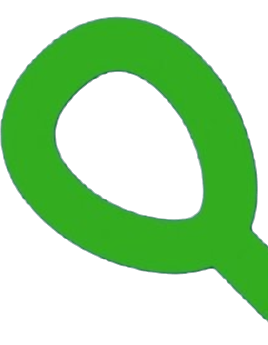
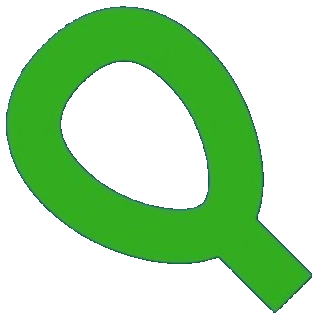
Refine court Q wave and navigation marks

Changed region(s): [[0.0597, 0.0, 1.0, 0.9875], [0.1791, 0.1693, 0.7761, 0.6771], [0.0, 0.2539, 0.0597, 0.5361]]

diff --git a/client/src/brand-new.css b/client/src/brand-new.css
@@ -147,13 +147,13 @@ body {
 }
 .bn-header__nav {
   display: flex;
-  gap: clamp(1.2rem, 2.2vw, 2.6rem);
+  gap: clamp(0.9rem, 1.6vw, 1.9rem);
   justify-content: center;
 }
 .bn-header__nav a,
 .bn-header__actions > a:first-child {
   color: inherit;
-  font-size: 0.82rem;
+  font-size: 1.23rem;
   font-weight: 700;
   letter-spacing: 0.045em;
   padding: 0.5rem 0;
@@ -344,13 +344,34 @@ body {
   width: clamp(5rem, 9vw, 9rem);
 }
 .bn-racket-q {
+  background: currentColor;
   display: block;
-  height: auto;
-  object-fit: contain;
+  height: clamp(4.5rem, 7vw, 7rem);
+  mask: url("/media/sol-racket-q-extracted.png") center / contain no-repeat;
+  -webkit-mask: url("/media/sol-racket-q-extracted.png") center / contain
+    no-repeat;
   width: clamp(4.5rem, 7vw, 7rem);
 }
+.bn-racket-q--green {
+  color: var(--bn-green);
+}
+.bn-racket-q--navy {
+  color: var(--bn-navy);
+}
+.bn-racket-q--mustard {
+  color: var(--bn-mustard);
+}
+.bn-racket-q--orange {
+  color: var(--bn-orange);
+}
+.bn-racket-q--cyan {
+  color: var(--bn-cyan);
+}
+.bn-racket-q--cream {
+  color: var(--bn-cream);
+}
 .bn-brand-wave {
-  height: 90px;
+  height: clamp(3.25rem, 4.5vw, 4.75rem);
   line-height: 0;
   margin: -1px 0;
   overflow: hidden;
@@ -367,14 +388,15 @@ body {
 }
 .bn-court-mark {
   fill: none;
-  opacity: 0.14;
+  opacity: 0.12;
   pointer-events: none;
   position: absolute;
   stroke: currentColor;
   stroke-linecap: square;
   stroke-linejoin: miter;
-  stroke-width: 4;
-  width: clamp(10rem, 19vw, 20rem);
+  stroke-width: 10;
+  transform: rotate(-18deg);
+  width: clamp(34rem, 62vw, 66rem);
 }
 
 .bn-journeys,
@@ -611,8 +633,8 @@ body {
   top: 9%;
 }
 .bn-court-mark--offerings {
-  bottom: 8%;
-  right: -3%;
+  bottom: -28%;
+  right: -20%;
 }
 .bn-offerings > .bn-section-heading {
   display: grid;
@@ -704,8 +726,8 @@ body {
   color: var(--bn-orange) !important;
 }
 .bn-court-mark--reassurance {
-  right: 4%;
-  top: 8%;
+  right: -19%;
+  top: -24%;
 }
 .bn-first-rally > div:last-child > .bn-racket-q {
   margin: 0 0 2rem auto;
@@ -799,8 +821,8 @@ body {
   grid-template-columns: 0.7fr 1.3fr;
 }
 .bn-court-mark--schedule {
-  left: -2%;
-  top: 8%;
+  left: -22%;
+  top: -23%;
 }
 .bn-schedule-list > div:last-child {
   border-top: 1px solid var(--bn-navy);
@@ -868,8 +890,8 @@ body {
 }
 .bn-court-mark--membership {
   color: var(--bn-cyan);
-  right: 3%;
-  top: 5%;
+  right: -18%;
+  top: -24%;
 }
 .bn-membership__prices {
   border-bottom: 1px solid rgba(255, 255, 255, 0.3);
@@ -1034,9 +1056,9 @@ body {
   position: relative;
 }
 .bn-court-mark--story {
-  bottom: 5%;
+  bottom: -27%;
   color: var(--bn-navy);
-  left: 2%;
+  left: -20%;
 }
 .bn-story-copy > div {
   max-width: 52rem;
@@ -1199,8 +1221,8 @@ body {
 }
 .bn-court-mark--journeys {
   color: var(--bn-navy);
-  right: 3%;
-  top: 4%;
+  right: -20%;
+  top: -22%;
 }
 .bn-footer__lead {
   align-items: center;

diff --git a/client/src/components/BrandMarks.tsx b/client/src/components/BrandMarks.tsx
@@ -26,15 +26,14 @@ export function BallMark({
   );
 }
 
-/** The official logo artwork is cropped—not redrawn—so the racket-shaped Q remains authentic. */
-export function RacketQMark() {
+/** The complete connected Q artwork is extracted from the official logo and recolored only through its alpha mask. */
+export function RacketQMark({
+  tone = "green",
+}: {
+  tone?: "green" | "navy" | "mustard" | "orange" | "cyan" | "cream";
+}) {
   return (
-    <img
-      className="bn-racket-q"
-      src="/media/sol-racket-q-extracted.png"
-      alt=""
-      aria-hidden="true"
-    />
+    <span className={`bn-racket-q bn-racket-q--${tone}`} aria-hidden="true" />
   );
 }
 
@@ -74,16 +73,16 @@ export function BrandWave({
       style={{ backgroundColor: waveColors[source] }}
       aria-hidden="true"
     >
-      <svg viewBox="0 0 1440 90" preserveAspectRatio="none">
+      <svg viewBox="0 0 1440 64" preserveAspectRatio="none">
         <path
-          d="M0,38 C120,74 240,74 360,38 C480,2 600,2 720,38 C840,74 960,74 1080,38 C1200,2 1320,2 1440,38 L1440,90 L0,90 Z"
+          d="M0,28 C120,52 240,52 360,28 C480,4 600,4 720,28 C840,52 960,52 1080,28 C1200,4 1320,4 1440,28 L1440,64 L0,64 Z"
           fill={waveColors[destination]}
         />
         <path
-          d="M0,38 C120,74 240,74 360,38 C480,2 600,2 720,38 C840,74 960,74 1080,38 C1200,2 1320,2 1440,38"
+          d="M0,28 C120,52 240,52 360,28 C480,4 600,4 720,28 C840,52 960,52 1080,28 C1200,4 1320,4 1440,28"
           fill="none"
           stroke="#20d9e8"
-          strokeWidth="9"
+          strokeWidth="11"
           vectorEffect="non-scaling-stroke"
         />
       </svg>
@@ -95,10 +94,14 @@ export function CourtMark({ className = "" }: { className?: string }) {
   return (
     <svg
       className={`bn-court-mark ${className}`}
-      viewBox="0 0 240 220"
+      viewBox="0 0 750 750"
       aria-hidden="true"
     >
-      <path d="M20 200V20h200v180M20 120h200M75 120v80M165 120v80M75 165h90" />
+      <rect x="208.61" y="121.52" width="332.77" height="506.96" />
+      <line x1="208.61" y1="406.98" x2="541.39" y2="406.98" />
+      <line x1="375" y1="406.98" x2="375" y2="628.48" />
+      <polyline points="208.61 490.17, 291.81 490.17, 291.81 406.98" />
+      <polyline points="541.39 490.17, 458.19 490.17, 458.19 406.98" />
     </svg>
   );
 }

diff --git a/client/src/brandSystem.test.ts b/client/src/brandSystem.test.ts
@@ -10,6 +10,7 @@ const membership = read("./pages/MembershipsAndPrices.tsx");
 const schedule = read("./pages/Schedule.tsx");
 const story = read("./pages/OurStory.tsx");
 const marks = read("./components/BrandMarks.tsx");
+const header = read("./components/SiteHeader.tsx");
 const drawer = read("./components/ExperienceDrawer.tsx");
 const faq = read("./pages/FAQ.tsx");
 const faqSource = read("./pages/PlayAndPricing.tsx");
@@ -25,9 +26,16 @@ describe("brand-new Sol visitor experience", () => {
     expect(marks).toContain("bn-ball-mark");
     expect(marks).toContain("bn-cyan-wave");
     expect(marks).toContain("bn-racket-q");
-    expect(marks).toContain("sol-racket-q-extracted.png");
+    expect(css).toContain("sol-racket-q-extracted.png");
     expect(marks).toContain("BrandWave");
     expect(marks).toContain("CourtMark");
+    expect(marks).toContain('viewBox="0 0 750 750"');
+    expect(marks).toContain('x="208.61"');
+    expect(css).toContain('mask: url("/media/sol-racket-q-extracted.png")');
+  });
+  it("keeps Home visible and makes the desktop menu substantially larger", () => {
+    expect(header).toContain('{ label: "Home", href: "/" }');
+    expect(css).toContain("font-size: 1.23rem");
   });
   it("does not introduce palm-tree iconography", () => {
     expect(

diff --git a/client/src/components/SiteHeader.tsx b/client/src/components/SiteHeader.tsx
@@ -5,6 +5,7 @@ import { Link, useLocation } from "wouter";
 import { PLAYBYPOINT_BOOKING_URL } from "@/lib/booking";
 
 const navigation = [
+  { label: "Home", href: "/" },
   { label: "Play", href: "/play" },
   { label: "New to squash", href: "/new-to-squash" },
   { label: "Membership", href: "/memberships-and-prices" },
@@ -118,7 +119,7 @@ export function SiteHeader() {
                   </motion.div>
                 ))}
                 <Link href="/schedule" onClick={navigate}>
-                  <span>06</span>Schedule
+                  <span>07</span>Schedule
                 </Link>
               </nav>
               <a

diff --git a/client/src/pages/Play.tsx b/client/src/pages/Play.tsx
@@ -93,7 +93,7 @@ export default function Play() {
             handles the final booking and payment.
           </p>
         </div>
-        <RacketQMark />
+        <RacketQMark tone="orange" />
         <div className="bn-offering-list">
           {ways.map((way, index) => (
             <button
@@ -146,6 +146,7 @@ export default function Play() {
           </a>
         </div>
       </section>
+      <BrandWave source="teal" destination="orange" />
       <section className="bn-next-step">
         <p>Not sure where your game belongs?</p>
         <Link className="bn-text-link" href="/schedule">

diff --git a/client/src/pages/Home.tsx b/client/src/pages/Home.tsx
@@ -139,13 +139,14 @@ export default function Home() {
         </div>
       </section>
 
+      <BrandWave source="mustard" destination="navy" />
       <section className="bn-mural-break">
         <img
           src="/media/sol-mural-feature_9dd29c1b.png"
           alt="Sol Squash's mural-inspired exterior"
         />
         <div>
-          <RacketQMark />
+          <RacketQMark tone="mustard" />
           <p>
             The game is fast.
             <br />

diff --git a/client/src/pages/MembershipsAndPrices.tsx b/client/src/pages/MembershipsAndPrices.tsx
@@ -132,7 +132,7 @@ export default function MembershipsAndPrices() {
       </section>
       <BrandWave source="navy" destination="mustard" />
       <section className="bn-price-compare" id="everyday-pricing">
-        <RacketQMark />
+        <RacketQMark tone="navy" />
         <div className="bn-section-heading">
           <p className="bn-kicker">Everyday pricing</p>
           <h2>

diff --git a/client/src/pages/OurStory.tsx b/client/src/pages/OurStory.tsx
@@ -80,7 +80,7 @@ export default function OurStory() {
       </section>
       <BrandWave source="mustard" destination="cream" />
       <section className="bn-team">
-        <RacketQMark />
+        <RacketQMark tone="orange" />
         <div className="bn-section-heading">
           <p className="bn-kicker">The people behind Sol</p>
           <h2>

diff --git a/client/src/pages/Schedule.tsx b/client/src/pages/Schedule.tsx
@@ -100,7 +100,7 @@ export default function Schedule() {
       </section>
       <BrandWave source="cream" destination="orange" />
       <section className="bn-schedule-note">
-        <RacketQMark />
+        <RacketQMark tone="navy" />
         <div>
           <p className="bn-kicker">Rather play on your own time?</p>
           <h2>

diff --git a/client/src/pages/NewToSquash.tsx b/client/src/pages/NewToSquash.tsx
@@ -99,7 +99,7 @@ export default function NewToSquash() {
           />
         </div>
         <div>
-          <RacketQMark />
+          <RacketQMark tone="green" />
           <p className="bn-kicker">Your first rally</p>
           <h2>
             Choose the way
